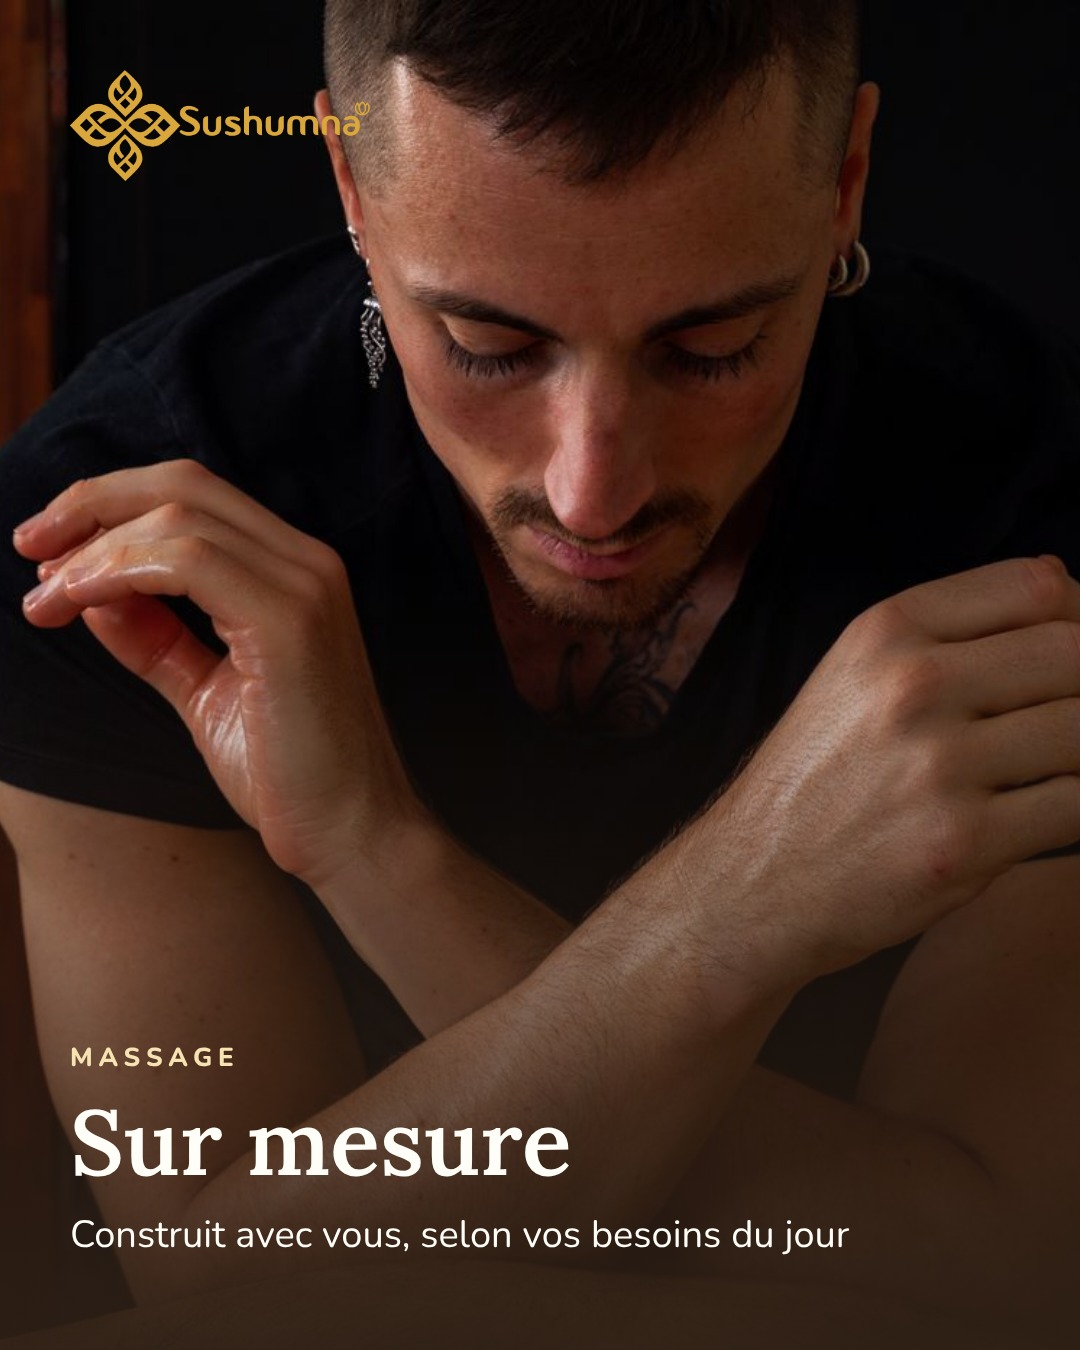
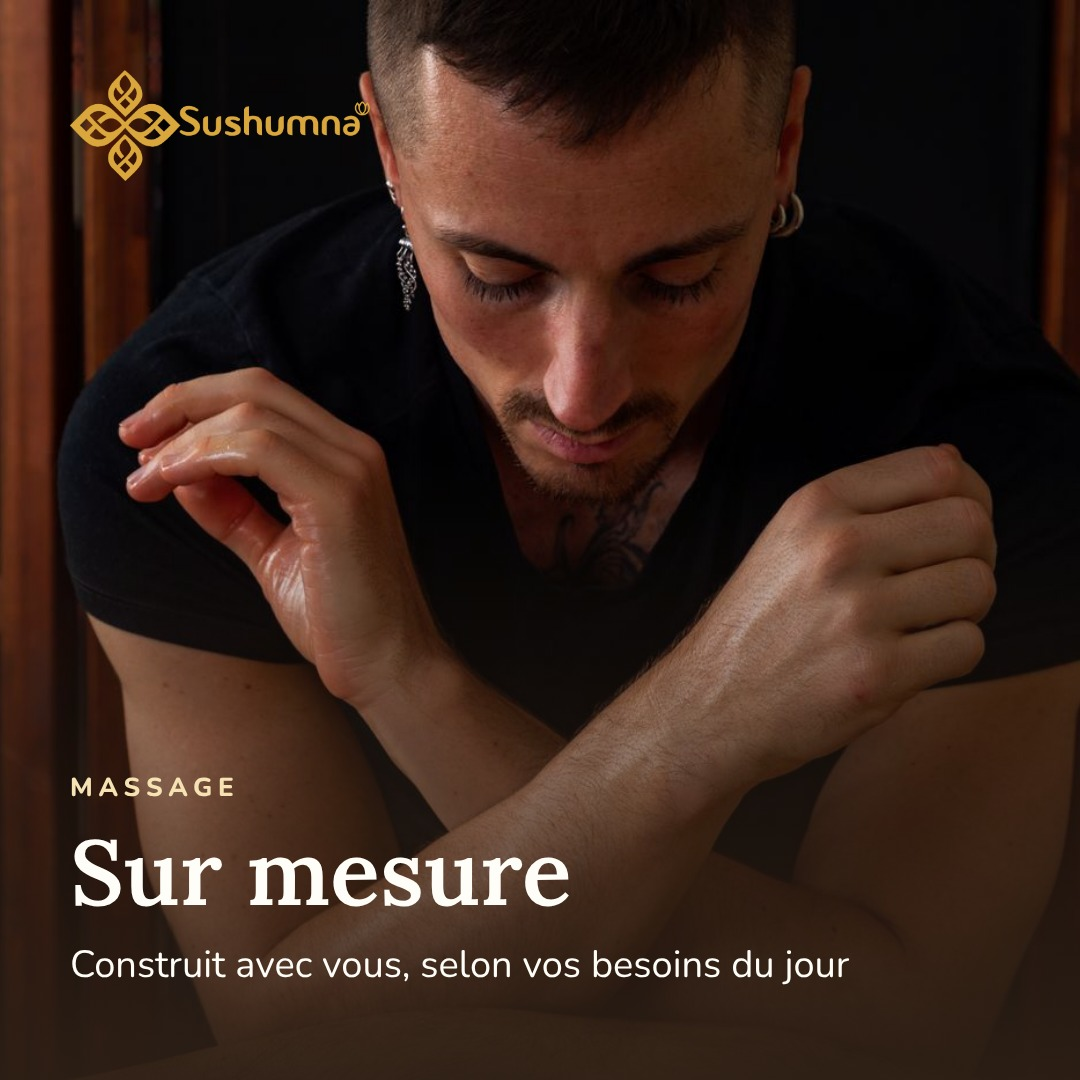
Graphisme : publications photo au format carré 1080 × 1080
Claude-Session: https://claude.ai/code/session_01FhKW6d7NffjTyYvYf6zG3G

diff --git a/graphisme/generer.js b/graphisme/generer.js
@@ -344,9 +344,10 @@ const grille = [
 <p class="surtitre" style="margin-top:50px;font-size:28px;color:var(--brun-doux)">${AVIS.chahir.nom}</p>`)],
 ];
 for (const [nom, contenu] of grille) {
+  const hauteur = contenu.body.includes('class="voile"') ? 1080 : 1350;
   PAGES.push({
-    nom, w: 1080, h: 1350, echelle: 1,
-    html: document_({ w: 1080, h: 1350, css: contenu.css, body: `<div class="page">${contenu.body}</div>` }),
+    nom, w: 1080, h: hauteur, echelle: 1,
+    html: document_({ w: 1080, h: hauteur, css: contenu.css, body: `<div class="page">${contenu.body}</div>` }),
   });
 }
 
@@ -446,8 +447,8 @@ contenuMassages.forEach((m, i) => {
     position: 'center',
   });
   PAGES.push({
-    nom: `${numero}-photo-${slug(m.nom)}`, w: 1080, h: 1350, echelle: 1,
-    html: document_({ w: 1080, h: 1350, css: contenu.css, body: `<div class="page">${contenu.body}</div>` }),
+    nom: `${numero}-photo-${slug(m.nom)}`, w: 1080, h: 1080, echelle: 1,
+    html: document_({ w: 1080, h: 1080, css: contenu.css, body: `<div class="page">${contenu.body}</div>` }),
   });
 });
 

diff --git a/graphisme/sources/13-grille-accueil.html b/graphisme/sources/13-grille-accueil.html
@@ -27,7 +27,7 @@ body{width:var(--w);height:var(--h);overflow:hidden;background:var(--creme);colo
 .legende .sous{color:var(--creme);font-size:38px;margin:0}
 .marque-haut{position:absolute;left:70px;top:70px;width:300px;height:auto}</style>
 </head>
-<body style="--w:1080px;--h:1350px">
+<body style="--w:1080px;--h:1080px">
 <svg width="0" height="0" style="position:absolute" aria-hidden="true">
   <symbol id="tel" viewBox="0 0 24 24"><path fill="none" stroke="currentColor" stroke-width="2" stroke-linecap="round" stroke-linejoin="round" d="M22 16.9v3a2 2 0 0 1-2.2 2 19.8 19.8 0 0 1-8.6-3.1 19.5 19.5 0 0 1-6-6A19.8 19.8 0 0 1 2.1 4.2 2 2 0 0 1 4.1 2h3a2 2 0 0 1 2 1.7c.1 1 .4 1.9.7 2.8a2 2 0 0 1-.5 2.1L8 9.9a16 16 0 0 0 6 6l1.3-1.3a2 2 0 0 1 2.1-.4c.9.3 1.8.6 2.8.7a2 2 0 0 1 1.7 2z"/></symbol>
   <symbol id="mail" viewBox="0 0 24 24"><g fill="none" stroke="currentColor" stroke-width="2" stroke-linecap="round" stroke-linejoin="round"><rect x="2" y="4" width="20" height="16" rx="2"/><path d="m22 7-10 6L2 7"/></g></symbol>

diff --git a/graphisme/sources/15-grille-relaxant.html b/graphisme/sources/15-grille-relaxant.html
@@ -27,7 +27,7 @@ body{width:var(--w);height:var(--h);overflow:hidden;background:var(--creme);colo
 .legende .sous{color:var(--creme);font-size:38px;margin:0}
 .marque-haut{position:absolute;left:70px;top:70px;width:300px;height:auto}</style>
 </head>
-<body style="--w:1080px;--h:1350px">
+<body style="--w:1080px;--h:1080px">
 <svg width="0" height="0" style="position:absolute" aria-hidden="true">
   <symbol id="tel" viewBox="0 0 24 24"><path fill="none" stroke="currentColor" stroke-width="2" stroke-linecap="round" stroke-linejoin="round" d="M22 16.9v3a2 2 0 0 1-2.2 2 19.8 19.8 0 0 1-8.6-3.1 19.5 19.5 0 0 1-6-6A19.8 19.8 0 0 1 2.1 4.2 2 2 0 0 1 4.1 2h3a2 2 0 0 1 2 1.7c.1 1 .4 1.9.7 2.8a2 2 0 0 1-.5 2.1L8 9.9a16 16 0 0 0 6 6l1.3-1.3a2 2 0 0 1 2.1-.4c.9.3 1.8.6 2.8.7a2 2 0 0 1 1.7 2z"/></symbol>
   <symbol id="mail" viewBox="0 0 24 24"><g fill="none" stroke="currentColor" stroke-width="2" stroke-linecap="round" stroke-linejoin="round"><rect x="2" y="4" width="20" height="16" rx="2"/><path d="m22 7-10 6L2 7"/></g></symbol>

diff --git a/graphisme/sources/17-grille-bol-tibetain.html b/graphisme/sources/17-grille-bol-tibetain.html
@@ -27,7 +27,7 @@ body{width:var(--w);height:var(--h);overflow:hidden;background:var(--creme);colo
 .legende .sous{color:var(--creme);font-size:38px;margin:0}
 .marque-haut{position:absolute;left:70px;top:70px;width:300px;height:auto}</style>
 </head>
-<body style="--w:1080px;--h:1350px">
+<body style="--w:1080px;--h:1080px">
 <svg width="0" height="0" style="position:absolute" aria-hidden="true">
   <symbol id="tel" viewBox="0 0 24 24"><path fill="none" stroke="currentColor" stroke-width="2" stroke-linecap="round" stroke-linejoin="round" d="M22 16.9v3a2 2 0 0 1-2.2 2 19.8 19.8 0 0 1-8.6-3.1 19.5 19.5 0 0 1-6-6A19.8 19.8 0 0 1 2.1 4.2 2 2 0 0 1 4.1 2h3a2 2 0 0 1 2 1.7c.1 1 .4 1.9.7 2.8a2 2 0 0 1-.5 2.1L8 9.9a16 16 0 0 0 6 6l1.3-1.3a2 2 0 0 1 2.1-.4c.9.3 1.8.6 2.8.7a2 2 0 0 1 1.7 2z"/></symbol>
   <symbol id="mail" viewBox="0 0 24 24"><g fill="none" stroke="currentColor" stroke-width="2" stroke-linecap="round" stroke-linejoin="round"><rect x="2" y="4" width="20" height="16" rx="2"/><path d="m22 7-10 6L2 7"/></g></symbol>

diff --git a/graphisme/sources/35-photo-sur-mesure.html b/graphisme/sources/35-photo-sur-mesure.html
@@ -27,7 +27,7 @@ body{width:var(--w);height:var(--h);overflow:hidden;background:var(--creme);colo
 .legende .sous{color:var(--creme);font-size:38px;margin:0}
 .marque-haut{position:absolute;left:70px;top:70px;width:300px;height:auto}</style>
 </head>
-<body style="--w:1080px;--h:1350px">
+<body style="--w:1080px;--h:1080px">
 <svg width="0" height="0" style="position:absolute" aria-hidden="true">
   <symbol id="tel" viewBox="0 0 24 24"><path fill="none" stroke="currentColor" stroke-width="2" stroke-linecap="round" stroke-linejoin="round" d="M22 16.9v3a2 2 0 0 1-2.2 2 19.8 19.8 0 0 1-8.6-3.1 19.5 19.5 0 0 1-6-6A19.8 19.8 0 0 1 2.1 4.2 2 2 0 0 1 4.1 2h3a2 2 0 0 1 2 1.7c.1 1 .4 1.9.7 2.8a2 2 0 0 1-.5 2.1L8 9.9a16 16 0 0 0 6 6l1.3-1.3a2 2 0 0 1 2.1-.4c.9.3 1.8.6 2.8.7a2 2 0 0 1 1.7 2z"/></symbol>
   <symbol id="mail" viewBox="0 0 24 24"><g fill="none" stroke="currentColor" stroke-width="2" stroke-linecap="round" stroke-linejoin="round"><rect x="2" y="4" width="20" height="16" rx="2"/><path d="m22 7-10 6L2 7"/></g></symbol>

diff --git a/graphisme/sources/36-photo-sportif.html b/graphisme/sources/36-photo-sportif.html
@@ -27,7 +27,7 @@ body{width:var(--w);height:var(--h);overflow:hidden;background:var(--creme);colo
 .legende .sous{color:var(--creme);font-size:38px;margin:0}
 .marque-haut{position:absolute;left:70px;top:70px;width:300px;height:auto}</style>
 </head>
-<body style="--w:1080px;--h:1350px">
+<body style="--w:1080px;--h:1080px">
 <svg width="0" height="0" style="position:absolute" aria-hidden="true">
   <symbol id="tel" viewBox="0 0 24 24"><path fill="none" stroke="currentColor" stroke-width="2" stroke-linecap="round" stroke-linejoin="round" d="M22 16.9v3a2 2 0 0 1-2.2 2 19.8 19.8 0 0 1-8.6-3.1 19.5 19.5 0 0 1-6-6A19.8 19.8 0 0 1 2.1 4.2 2 2 0 0 1 4.1 2h3a2 2 0 0 1 2 1.7c.1 1 .4 1.9.7 2.8a2 2 0 0 1-.5 2.1L8 9.9a16 16 0 0 0 6 6l1.3-1.3a2 2 0 0 1 2.1-.4c.9.3 1.8.6 2.8.7a2 2 0 0 1 1.7 2z"/></symbol>
   <symbol id="mail" viewBox="0 0 24 24"><g fill="none" stroke="currentColor" stroke-width="2" stroke-linecap="round" stroke-linejoin="round"><rect x="2" y="4" width="20" height="16" rx="2"/><path d="m22 7-10 6L2 7"/></g></symbol>

diff --git a/graphisme/sources/37-photo-relaxant.html b/graphisme/sources/37-photo-relaxant.html
@@ -27,7 +27,7 @@ body{width:var(--w);height:var(--h);overflow:hidden;background:var(--creme);colo
 .legende .sous{color:var(--creme);font-size:38px;margin:0}
 .marque-haut{position:absolute;left:70px;top:70px;width:300px;height:auto}</style>
 </head>
-<body style="--w:1080px;--h:1350px">
+<body style="--w:1080px;--h:1080px">
 <svg width="0" height="0" style="position:absolute" aria-hidden="true">
   <symbol id="tel" viewBox="0 0 24 24"><path fill="none" stroke="currentColor" stroke-width="2" stroke-linecap="round" stroke-linejoin="round" d="M22 16.9v3a2 2 0 0 1-2.2 2 19.8 19.8 0 0 1-8.6-3.1 19.5 19.5 0 0 1-6-6A19.8 19.8 0 0 1 2.1 4.2 2 2 0 0 1 4.1 2h3a2 2 0 0 1 2 1.7c.1 1 .4 1.9.7 2.8a2 2 0 0 1-.5 2.1L8 9.9a16 16 0 0 0 6 6l1.3-1.3a2 2 0 0 1 2.1-.4c.9.3 1.8.6 2.8.7a2 2 0 0 1 1.7 2z"/></symbol>
   <symbol id="mail" viewBox="0 0 24 24"><g fill="none" stroke="currentColor" stroke-width="2" stroke-linecap="round" stroke-linejoin="round"><rect x="2" y="4" width="20" height="16" rx="2"/><path d="m22 7-10 6L2 7"/></g></symbol>

diff --git a/graphisme/sources/38-photo-reconfort.html b/graphisme/sources/38-photo-reconfort.html
@@ -27,7 +27,7 @@ body{width:var(--w);height:var(--h);overflow:hidden;background:var(--creme);colo
 .legende .sous{color:var(--creme);font-size:38px;margin:0}
 .marque-haut{position:absolute;left:70px;top:70px;width:300px;height:auto}</style>
 </head>
-<body style="--w:1080px;--h:1350px">
+<body style="--w:1080px;--h:1080px">
 <svg width="0" height="0" style="position:absolute" aria-hidden="true">
   <symbol id="tel" viewBox="0 0 24 24"><path fill="none" stroke="currentColor" stroke-width="2" stroke-linecap="round" stroke-linejoin="round" d="M22 16.9v3a2 2 0 0 1-2.2 2 19.8 19.8 0 0 1-8.6-3.1 19.5 19.5 0 0 1-6-6A19.8 19.8 0 0 1 2.1 4.2 2 2 0 0 1 4.1 2h3a2 2 0 0 1 2 1.7c.1 1 .4 1.9.7 2.8a2 2 0 0 1-.5 2.1L8 9.9a16 16 0 0 0 6 6l1.3-1.3a2 2 0 0 1 2.1-.4c.9.3 1.8.6 2.8.7a2 2 0 0 1 1.7 2z"/></symbol>
   <symbol id="mail" viewBox="0 0 24 24"><g fill="none" stroke="currentColor" stroke-width="2" stroke-linecap="round" stroke-linejoin="round"><rect x="2" y="4" width="20" height="16" rx="2"/><path d="m22 7-10 6L2 7"/></g></symbol>

diff --git a/graphisme/sources/39-photo-ayurvedique.html b/graphisme/sources/39-photo-ayurvedique.html
@@ -27,7 +27,7 @@ body{width:var(--w);height:var(--h);overflow:hidden;background:var(--creme);colo
 .legende .sous{color:var(--creme);font-size:38px;margin:0}
 .marque-haut{position:absolute;left:70px;top:70px;width:300px;height:auto}</style>
 </head>
-<body style="--w:1080px;--h:1350px">
+<body style="--w:1080px;--h:1080px">
 <svg width="0" height="0" style="position:absolute" aria-hidden="true">
   <symbol id="tel" viewBox="0 0 24 24"><path fill="none" stroke="currentColor" stroke-width="2" stroke-linecap="round" stroke-linejoin="round" d="M22 16.9v3a2 2 0 0 1-2.2 2 19.8 19.8 0 0 1-8.6-3.1 19.5 19.5 0 0 1-6-6A19.8 19.8 0 0 1 2.1 4.2 2 2 0 0 1 4.1 2h3a2 2 0 0 1 2 1.7c.1 1 .4 1.9.7 2.8a2 2 0 0 1-.5 2.1L8 9.9a16 16 0 0 0 6 6l1.3-1.3a2 2 0 0 1 2.1-.4c.9.3 1.8.6 2.8.7a2 2 0 0 1 1.7 2z"/></symbol>
   <symbol id="mail" viewBox="0 0 24 24"><g fill="none" stroke="currentColor" stroke-width="2" stroke-linecap="round" stroke-linejoin="round"><rect x="2" y="4" width="20" height="16" rx="2"/><path d="m22 7-10 6L2 7"/></g></symbol>

diff --git a/graphisme/sources/40-photo-chong-mai.html b/graphisme/sources/40-photo-chong-mai.html
@@ -27,7 +27,7 @@ body{width:var(--w);height:var(--h);overflow:hidden;background:var(--creme);colo
 .legende .sous{color:var(--creme);font-size:38px;margin:0}
 .marque-haut{position:absolute;left:70px;top:70px;width:300px;height:auto}</style>
 </head>
-<body style="--w:1080px;--h:1350px">
+<body style="--w:1080px;--h:1080px">
 <svg width="0" height="0" style="position:absolute" aria-hidden="true">
   <symbol id="tel" viewBox="0 0 24 24"><path fill="none" stroke="currentColor" stroke-width="2" stroke-linecap="round" stroke-linejoin="round" d="M22 16.9v3a2 2 0 0 1-2.2 2 19.8 19.8 0 0 1-8.6-3.1 19.5 19.5 0 0 1-6-6A19.8 19.8 0 0 1 2.1 4.2 2 2 0 0 1 4.1 2h3a2 2 0 0 1 2 1.7c.1 1 .4 1.9.7 2.8a2 2 0 0 1-.5 2.1L8 9.9a16 16 0 0 0 6 6l1.3-1.3a2 2 0 0 1 2.1-.4c.9.3 1.8.6 2.8.7a2 2 0 0 1 1.7 2z"/></symbol>
   <symbol id="mail" viewBox="0 0 24 24"><g fill="none" stroke="currentColor" stroke-width="2" stroke-linecap="round" stroke-linejoin="round"><rect x="2" y="4" width="20" height="16" rx="2"/><path d="m22 7-10 6L2 7"/></g></symbol>

diff --git a/graphisme/sources/41-photo-au-bol-tibetain.html b/graphisme/sources/41-photo-au-bol-tibetain.html
@@ -27,7 +27,7 @@ body{width:var(--w);height:var(--h);overflow:hidden;background:var(--creme);colo
 .legende .sous{color:var(--creme);font-size:38px;margin:0}
 .marque-haut{position:absolute;left:70px;top:70px;width:300px;height:auto}</style>
 </head>
-<body style="--w:1080px;--h:1350px">
+<body style="--w:1080px;--h:1080px">
 <svg width="0" height="0" style="position:absolute" aria-hidden="true">
   <symbol id="tel" viewBox="0 0 24 24"><path fill="none" stroke="currentColor" stroke-width="2" stroke-linecap="round" stroke-linejoin="round" d="M22 16.9v3a2 2 0 0 1-2.2 2 19.8 19.8 0 0 1-8.6-3.1 19.5 19.5 0 0 1-6-6A19.8 19.8 0 0 1 2.1 4.2 2 2 0 0 1 4.1 2h3a2 2 0 0 1 2 1.7c.1 1 .4 1.9.7 2.8a2 2 0 0 1-.5 2.1L8 9.9a16 16 0 0 0 6 6l1.3-1.3a2 2 0 0 1 2.1-.4c.9.3 1.8.6 2.8.7a2 2 0 0 1 1.7 2z"/></symbol>
   <symbol id="mail" viewBox="0 0 24 24"><g fill="none" stroke="currentColor" stroke-width="2" stroke-linecap="round" stroke-linejoin="round"><rect x="2" y="4" width="20" height="16" rx="2"/><path d="m22 7-10 6L2 7"/></g></symbol>

diff --git a/graphisme/sources/42-photo-reflexologie-abdominale.html b/graphisme/sources/42-photo-reflexologie-abdominale.html
@@ -27,7 +27,7 @@ body{width:var(--w);height:var(--h);overflow:hidden;background:var(--creme);colo
 .legende .sous{color:var(--creme);font-size:38px;margin:0}
 .marque-haut{position:absolute;left:70px;top:70px;width:300px;height:auto}</style>
 </head>
-<body style="--w:1080px;--h:1350px">
+<body style="--w:1080px;--h:1080px">
 <svg width="0" height="0" style="position:absolute" aria-hidden="true">
   <symbol id="tel" viewBox="0 0 24 24"><path fill="none" stroke="currentColor" stroke-width="2" stroke-linecap="round" stroke-linejoin="round" d="M22 16.9v3a2 2 0 0 1-2.2 2 19.8 19.8 0 0 1-8.6-3.1 19.5 19.5 0 0 1-6-6A19.8 19.8 0 0 1 2.1 4.2 2 2 0 0 1 4.1 2h3a2 2 0 0 1 2 1.7c.1 1 .4 1.9.7 2.8a2 2 0 0 1-.5 2.1L8 9.9a16 16 0 0 0 6 6l1.3-1.3a2 2 0 0 1 2.1-.4c.9.3 1.8.6 2.8.7a2 2 0 0 1 1.7 2z"/></symbol>
   <symbol id="mail" viewBox="0 0 24 24"><g fill="none" stroke="currentColor" stroke-width="2" stroke-linecap="round" stroke-linejoin="round"><rect x="2" y="4" width="20" height="16" rx="2"/><path d="m22 7-10 6L2 7"/></g></symbol>
